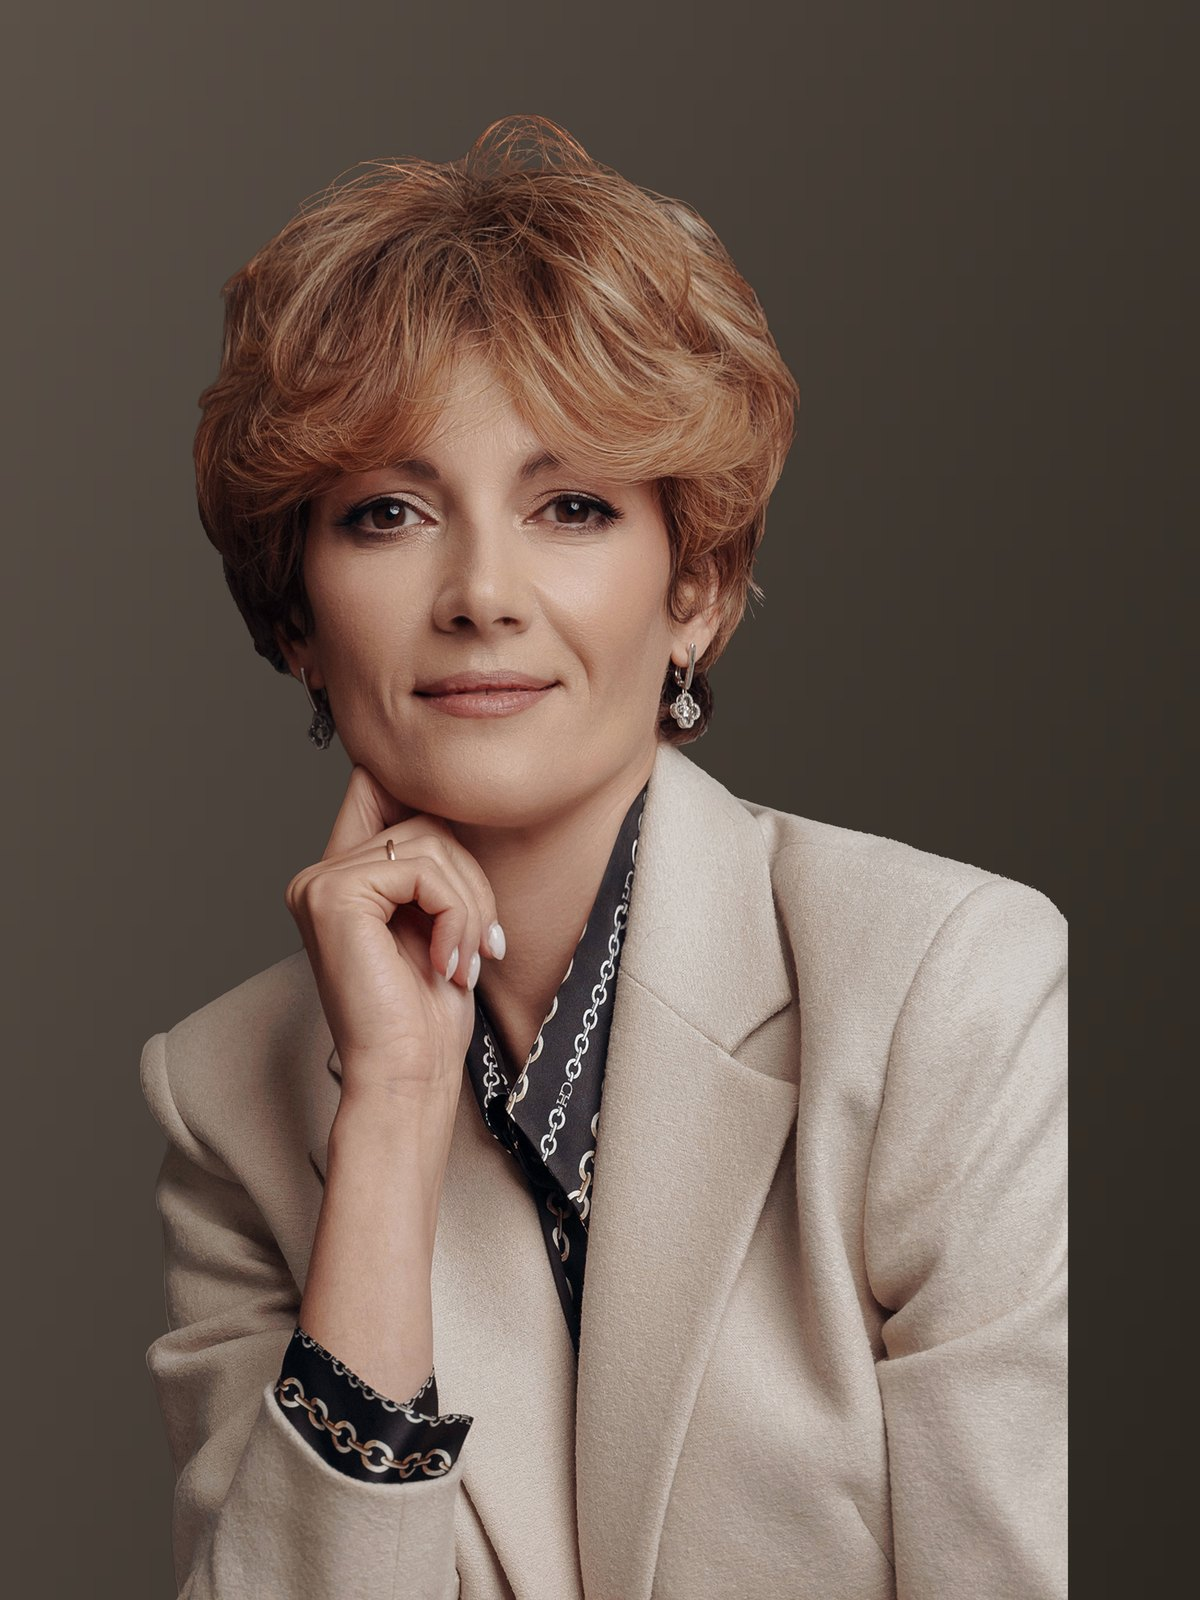
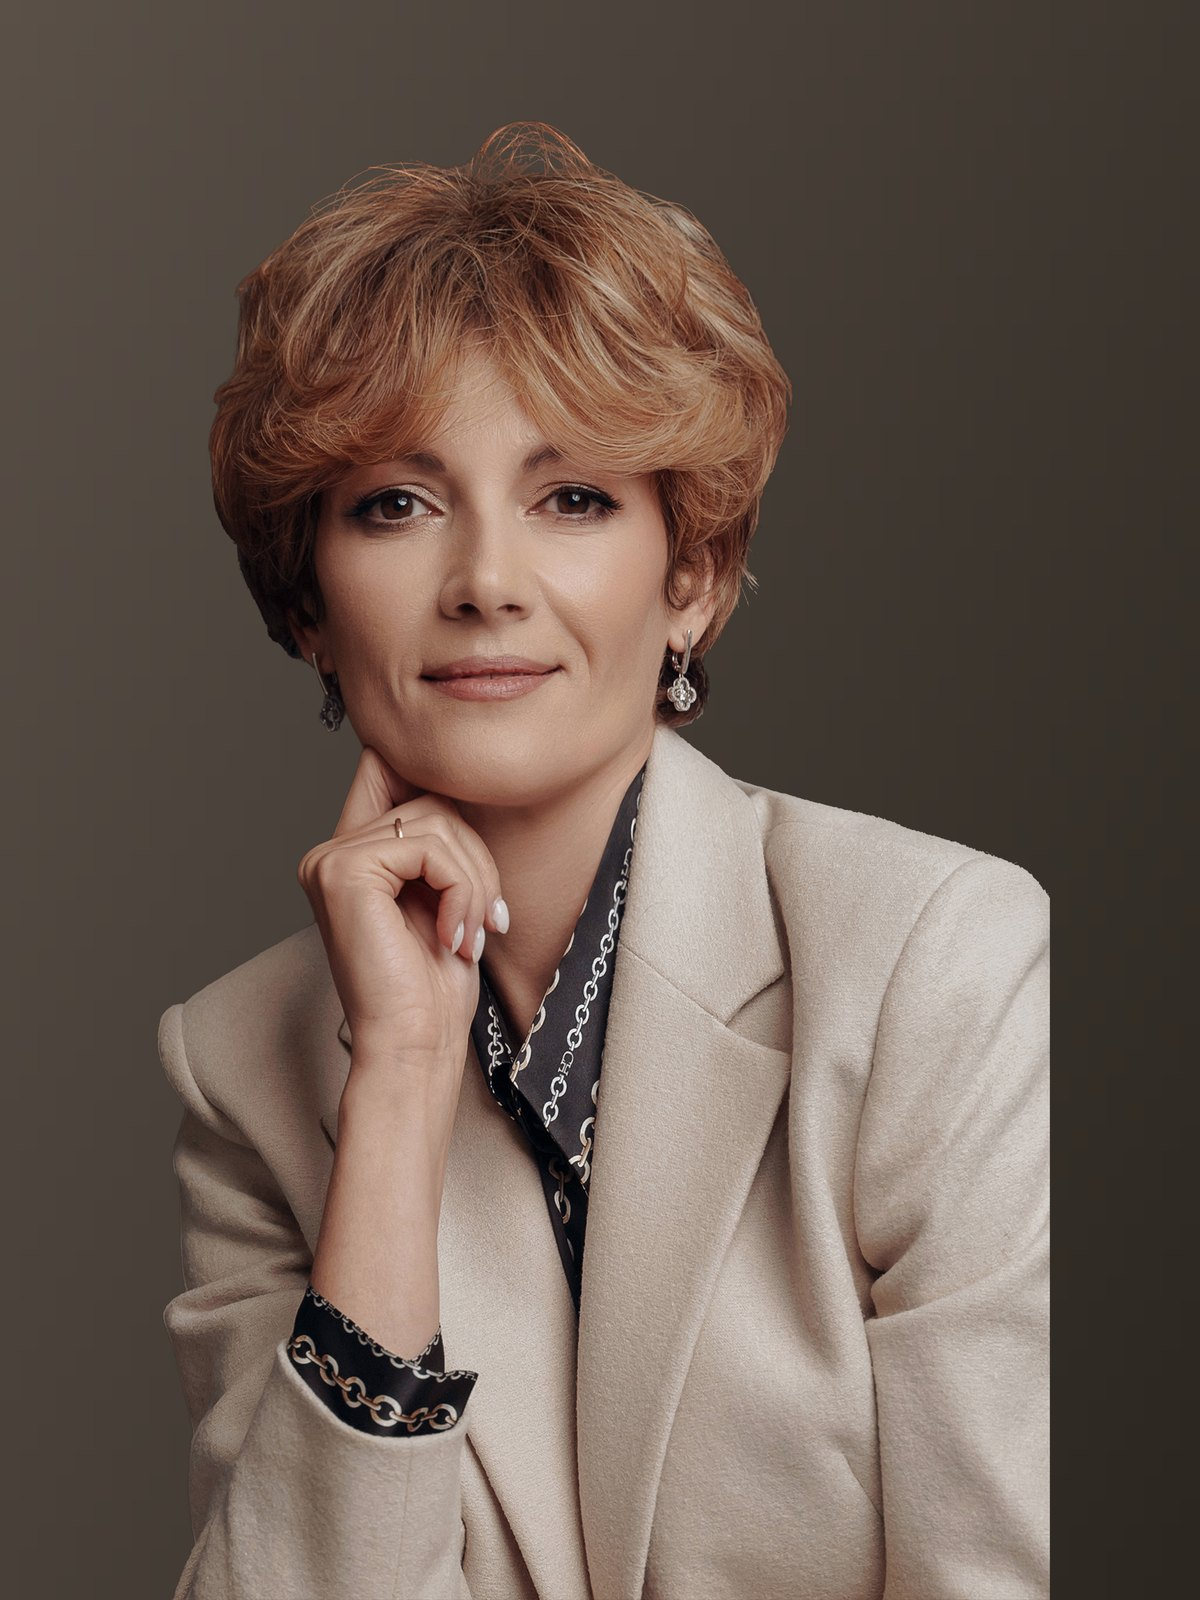
Портреты прижаты к низу кадра, лента партнеров едет сама
— фигуры на фото «висели» в воздухе: теперь низ фигуры совпадает
  с нижним краем кадра, сверху остаётся запас над головой;
— полоса логотипов партнеров (партнерство, «О компании», страницы
  услуг) идёт бесконечной лентой, при наведении останавливается.

Changed region(s): [[0.0925, 0.0625, 0.8942, 1.0], [0.8017, 0.9062, 0.8325, 0.9375]]

diff --git a/assets/scss/pages/_press.scss b/assets/scss/pages/_press.scss
@@ -261,3 +261,80 @@
         }
     }
 }
+
+// --- Перечень публикаций в печатных изданиях -----------------
+.pubs-list {
+    padding-top: 100px;
+
+    @include tablet {
+        padding-top: 80px;
+    }
+
+    @include mobile {
+        padding-top: 50px;
+    }
+}
+
+.pubs-list__head {
+    display: flex;
+    gap: 92px;
+    align-items: flex-start;
+    margin-bottom: 25px;
+
+    @include tablet {
+        flex-direction: column;
+        gap: 15px;
+    }
+}
+
+.pubs-list__note {
+    flex: 0 0 auto;
+    width: 593px;
+
+    @include tablet {
+        width: 100%;
+    }
+}
+
+.pubs-list__grid {
+    display: grid;
+    grid-template-columns: repeat(2, 1fr);
+    gap: 10px 30px;
+    margin: 0;
+    padding: 0;
+    list-style: none;
+
+    @include mobile {
+        grid-template-columns: 1fr;
+    }
+}
+
+.pubs-list__item {
+    display: flex;
+    gap: 10px;
+    align-items: flex-start;
+    padding: 14px 16px;
+    color: $c-dark;
+    font-size: 15px;
+    font-weight: 400;
+    line-height: round(nearest, 1.3em, 1px);
+    background-color: $c-surface;
+    border-radius: $r-sm;
+
+    @include mobile {
+        font-size: 14px;
+    }
+}
+
+.pubs-list__marker {
+    display: flex;
+    flex: 0 0 auto;
+    margin-top: 5px;
+    color: $c-muted;
+
+    svg {
+        display: block;
+        width: 8px;
+        height: 8px;
+    }
+}

diff --git a/assets/scss/components/_chip.scss b/assets/scss/components/_chip.scss
@@ -112,3 +112,25 @@
         background-color: inherit;
     }
 }
+
+// --- Бесконечная лента логотипов -----------------------------
+.logo-marquee {
+    overflow: hidden;
+}
+
+.logo-marquee .is-marquee {
+    width: max-content;
+    padding-left: 0;
+    overflow: visible;
+    // Набор логотипов продублирован: сдвиг на половину ленты — это
+    // ровно один круг, поэтому стык не виден.
+    animation: mp-marquee 60s linear infinite;
+
+    &:hover {
+        animation-play-state: paused;
+    }
+
+    @media (prefers-reduced-motion: reduce) {
+        animation: none;
+    }
+}

diff --git a/theme/template-parts/press/pubs-list.php b/theme/template-parts/press/pubs-list.php
@@ -1,0 +1,37 @@
+<?php
+/**
+ * СМИ о нас: перечень публикаций в печатных изданиях.
+ *
+ * У этих материалов нет страницы в сети — только издание и выпуск,
+ * поэтому показываем их списком, а не карточками.
+ *
+ * @package MPartners
+ */
+
+$mp_items = function_exists( 'mp_pubs_list' ) ? mp_pubs_list() : [];
+
+if ( ! $mp_items ) {
+	return;
+}
+?>
+<section class="pubs-list">
+	<div class="shell">
+		<div class="pubs-list__head">
+			<h2 class="h-section pubs-list__title">Другие публикации</h2>
+
+			<div class="note pubs-list__note">
+				<span class="note__icon"><?php mp_icon( 'info' ); ?></span>
+				<p class="note__text">Статьи и комментарии адвокатов коллегии в печатных изданиях и отраслевых журналах: «Трудовое право», «Жилищное право», «Делопроизводство», «Управление персоналом» и других</p>
+			</div>
+		</div>
+
+		<ul class="pubs-list__grid">
+			<?php foreach ( $mp_items as $mp_item ) : ?>
+				<li class="pubs-list__item">
+					<span class="pubs-list__marker" aria-hidden="true"><?php mp_icon( 'polygon' ); ?></span>
+					<span><?php echo esc_html( $mp_item ); ?></span>
+				</li>
+			<?php endforeach; ?>
+		</ul>
+	</div>
+</section>

diff --git a/theme/inc/lawyer-cpt.php b/theme/inc/lawyer-cpt.php
@@ -493,7 +493,7 @@ function mp_lawyer_fields( $post_id ) {
 	return $card;
 }
 
-const MP_LAWYER_PHOTOS_VERSION = '1';
+const MP_LAWYER_PHOTOS_VERSION = '2';
 
 /**
  * Разовая замена фотографий: портреты пересобраны в едином стиле —
@@ -511,11 +511,12 @@ function mp_seed_lawyer_photos() {
 			continue;
 		}
 
+		// Фото пересобраны: старый файл из медиатеки убираем, чтобы
+		// не плодить portrait-name-1.jpg и не оставлять прежний кадр.
 		$current = (int) get_post_thumbnail_id( $id );
-		$url     = $current ? (string) wp_get_attachment_url( $current ) : '';
 
-		if ( $url && false !== strpos( $url, $person['photo'] ) ) {
-			continue;
+		if ( $current ) {
+			wp_delete_attachment( $current, true );
 		}
 
 		$attachment = mp_sideload_theme_image( $person['photo'], $person['name'] );

diff --git a/theme/template-parts/landing/ratings.php b/theme/template-parts/landing/ratings.php
@@ -25,13 +25,15 @@ $mp_logos   = (array) $mp_ratings['logos'];
 				<p class="ld-ratings__label"><?php echo esc_html( $mp_ratings['label'] ); ?></p>
 			</div>
 
-			<ul class="ld-ratings__logos" data-drag-scroll data-center-mobile>
-				<?php foreach ( $mp_logos as $mp_logo ) : ?>
+			<div class="logo-marquee">
+		<ul class="ld-ratings__logos is-marquee">
+				<?php foreach ( array_merge( $mp_logos, $mp_logos ) as $mp_logo ) : ?>
 					<li class="ld-logo">
 						<img src="<?php echo esc_url( mp_img( $mp_logo ) ); ?>" alt="" aria-hidden="true" loading="lazy" decoding="async">
 					</li>
 				<?php endforeach; ?>
 			</ul>
+			</div>
 		</div>
 	</div>
 </section>

diff --git a/theme/template-parts/about/intro.php b/theme/template-parts/about/intro.php
@@ -37,11 +37,13 @@ $mp_intro = mp_about( 'intro' );
 		</div>
 	</div>
 
-	<ul class="ab-intro__logos" data-drag-scroll>
-		<?php foreach ( (array) $mp_intro['logos'] as $mp_logo ) : ?>
+	<div class="logo-marquee">
+		<ul class="ab-intro__logos is-marquee">
+		<?php foreach ( array_merge( (array) $mp_intro['logos'], (array) $mp_intro['logos'] ) as $mp_logo ) : ?>
 			<li class="ld-logo">
 				<img src="<?php echo esc_url( mp_img( $mp_logo ) ); ?>" alt="" aria-hidden="true" loading="lazy" decoding="async">
 			</li>
 		<?php endforeach; ?>
-	</ul>
+		</ul>
+	</div>
 </section>

diff --git a/theme/template-parts/partners/lead.php b/theme/template-parts/partners/lead.php
@@ -22,11 +22,13 @@ $mp_logos = (array) mp_partners( 'logos', [] );
 		</div>
 	</div>
 
-	<ul class="pn__logos" data-drag-scroll>
-		<?php foreach ( $mp_logos as $mp_logo ) : ?>
+	<div class="logo-marquee">
+		<ul class="pn__logos is-marquee">
+		<?php foreach ( array_merge( $mp_logos, $mp_logos ) as $mp_logo ) : ?>
 			<li class="ld-logo">
 				<img src="<?php echo esc_url( mp_img( $mp_logo ) ); ?>" alt="" aria-hidden="true" loading="lazy" decoding="async">
 			</li>
 		<?php endforeach; ?>
-	</ul>
+		</ul>
+	</div>
 </section>

diff --git a/theme/page-media.php b/theme/page-media.php
@@ -8,6 +8,7 @@
 get_header();
 
 get_template_part( 'template-parts/press/list', null, [ 'section' => 'media' ] );
+get_template_part( 'template-parts/press/pubs-list' );
 get_template_part( 'template-parts/sections/form' );
 
 get_footer();
